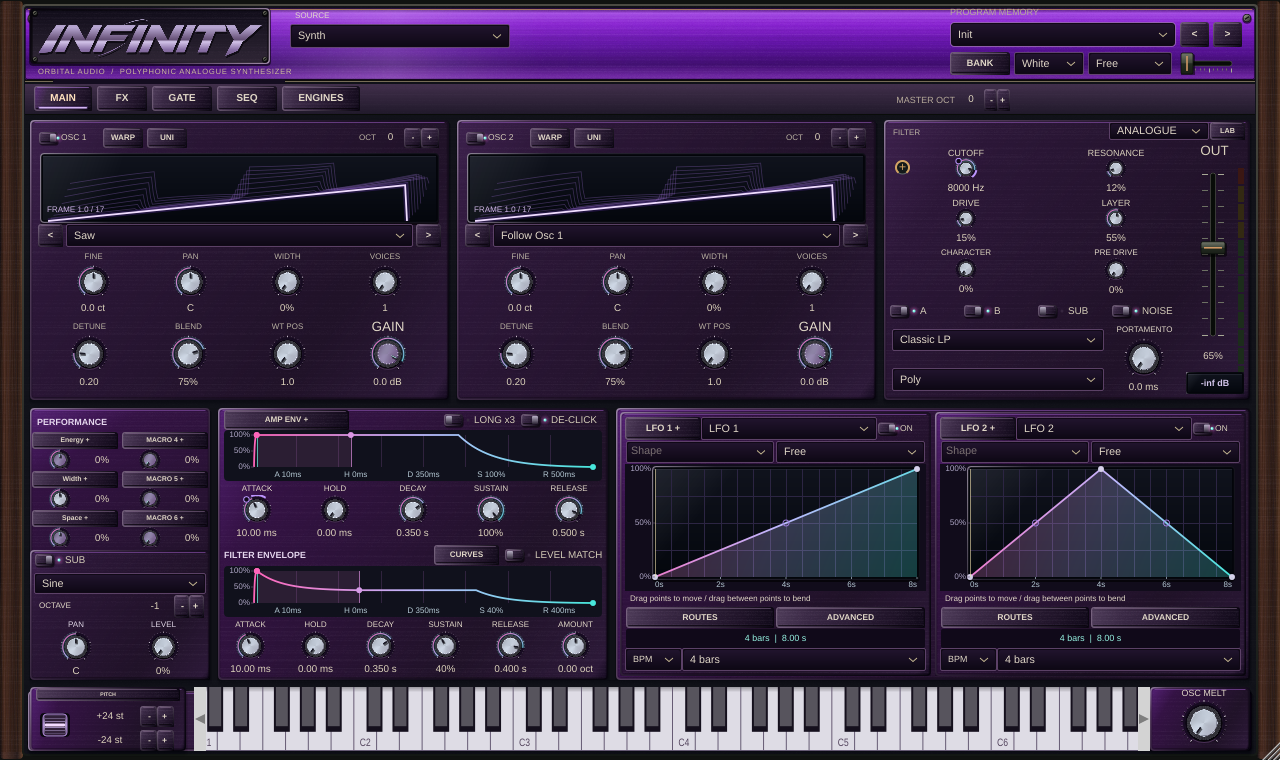
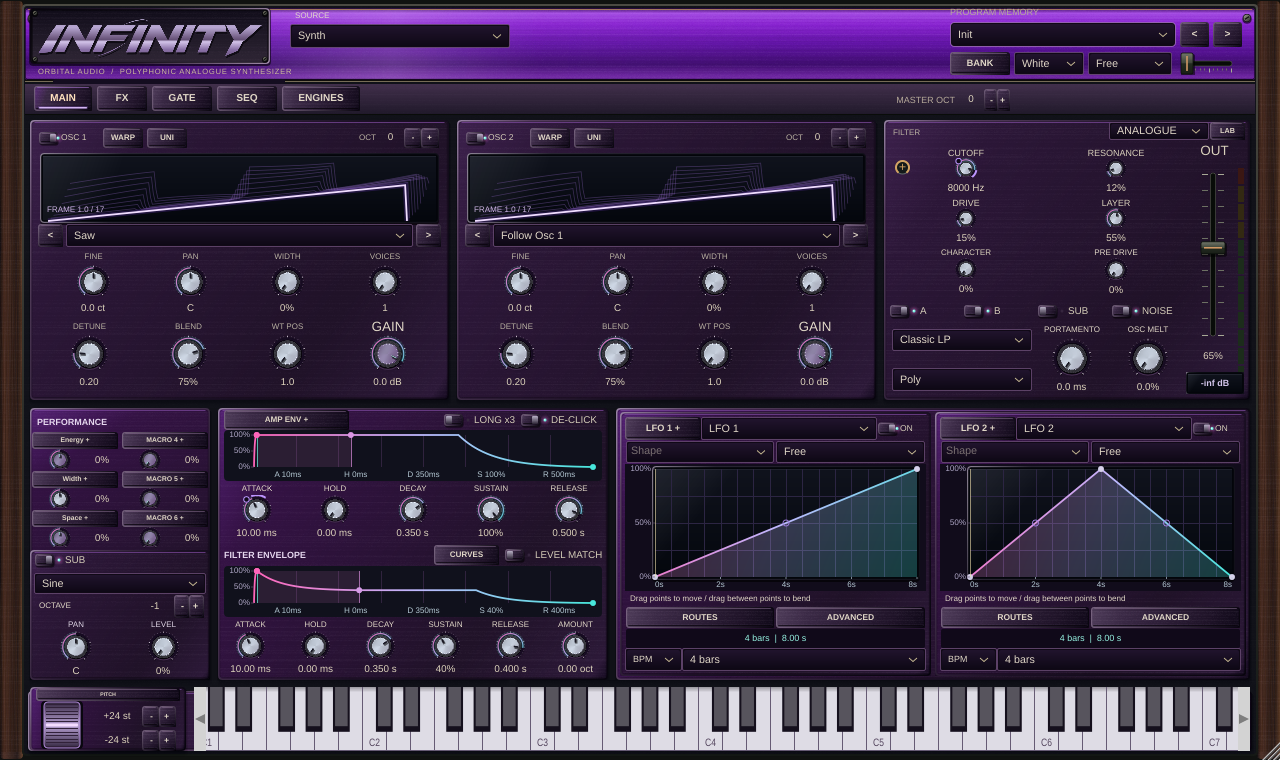
Move oscillator melt beside portamento and enlarge pitch wheel [skip ci]

Changed region(s): [[0.1562, 0.8776, 1.0, 0.9987], [0.8125, 0.4237, 0.9062, 0.5145], [0.0312, 0.9079, 0.125, 0.9987]]

diff --git a/native-vst3/Source/PluginEditor.cpp b/native-vst3/Source/PluginEditor.cpp
@@ -400,7 +400,7 @@ SpaceInfinityEditor::SpaceInfinityEditor(SpaceInfinityProcessor& p):AudioProcess
     addAndMakeVisible(noiseLevel);
     attachments.push_back(std::make_unique<juce::AudioProcessorValueTreeState::SliderAttachment>(processor.state,"noiseLevel",noiseLevel));
     noiseLevel.textFromValueFunction=[](double v){return juce::String(v*100,1)+" %";};noiseLevel.updateText();
-    melt.initialiseModulation(processor,"oscMelt");melt.setName("Oscillator melt");melt.setSliderStyle(juce::Slider::RotaryHorizontalVerticalDrag);melt.setTextBoxStyle(juce::Slider::NoTextBox,false,0,0);melt.setPopupDisplayEnabled(true,true,this);melt.setMouseDragSensitivity(350);melt.setDoubleClickReturnValue(true,0);melt.setTooltip("MELT brings both synth oscillators through shared harmonic saturation and gently unifies their stereo image. Keeps tuning; zero restores the original sound. Use both oscillators.");attachments.push_back(std::make_unique<juce::AudioProcessorValueTreeState::SliderAttachment>(processor.state,"oscMelt",melt));melt.textFromValueFunction=[](double value){return juce::String(value*100,1)+"%";};addAndMakeVisible(melt);meltLabel.setText("OSC MELT",juce::dontSendNotification);meltLabel.setJustificationType(juce::Justification::centred);meltLabel.setFont(juce::Font(juce::FontOptions(10)));addAndMakeVisible(meltLabel);
+    melt.initialiseModulation(processor,"oscMelt");melt.setName("Oscillator melt");melt.setSliderStyle(juce::Slider::RotaryHorizontalVerticalDrag);melt.setTextBoxStyle(juce::Slider::TextBoxBelow,false,56,16);melt.setPopupDisplayEnabled(true,true,this);melt.setMouseDragSensitivity(350);melt.setDoubleClickReturnValue(true,0);melt.setTooltip("MELT brings both synth oscillators through shared harmonic saturation and gently unifies their stereo image. Keeps tuning; zero restores the original sound. Use both oscillators.");attachments.push_back(std::make_unique<juce::AudioProcessorValueTreeState::SliderAttachment>(processor.state,"oscMelt",melt));melt.textFromValueFunction=[](double value){return juce::String(value*100,1)+"%";};melt.valueFromTextFunction=[](const juce::String& text){return text.getDoubleValue()/100;};melt.updateText();addAndMakeVisible(melt);meltLabel.setText("OSC MELT",juce::dontSendNotification);meltLabel.setJustificationType(juce::Justification::centred);meltLabel.setFont(juce::Font(juce::FontOptions(9)));addAndMakeVisible(meltLabel);
     for(int i=0;i<3;++i){samplerLabels[size_t(i)].setText(i==0?"START":i==1?"END":"ROOT",juce::dontSendNotification);samplerLabels[size_t(i)].setFont(juce::Font(juce::FontOptions(8.5f)));addAndMakeVisible(samplerLabels[size_t(i)]);}
     const char* oscIds[]={"osc1Tune","osc1Width","osc2Tune","osc2Width"};
     for(size_t i=0;i<oscillatorSliders.size();++i){
@@ -504,7 +504,7 @@ SpaceInfinityEditor::SpaceInfinityEditor(SpaceInfinityProcessor& p):AudioProcess
     pitchAttachment=std::make_unique<juce::AudioProcessorValueTreeState::SliderAttachment>(processor.state,"pitchBend",pitchWheel);
     pitchWheel.textFromValueFunction=[](double value){return juce::String(value,1)+" st";};
     pitchWheel.updateText();
-    for(int i=0;i<2;++i){auto& limit=pitchLimits[size_t(i)];const char* id=i==0?"pitchUpLimit":"pitchDownLimit";limit.initialiseModulation(processor,id);limit.setName(i==0?"Pitch up limit":"Pitch down limit");limit.setSliderStyle(juce::Slider::IncDecButtons);limit.setIncDecButtonsMode(juce::Slider::incDecButtonsDraggable_Vertical);limit.setTextBoxStyle(juce::Slider::TextBoxLeft,false,56,20);limit.setMouseDragSensitivity(250);limit.setTooltip(i==0?"Upper pitch-wheel stop, 0 to +24 semitones. Type a value or drag the +/- area vertically.":"Lower pitch-wheel stop, 0 to -24 semitones. Type a value or drag the +/- area vertically.");attachments.push_back(std::make_unique<juce::AudioProcessorValueTreeState::SliderAttachment>(processor.state,id,limit));limit.textFromValueFunction=[i](double value){return (value==0?juce::String{}:juce::String(i==0?"+":"-"))+juce::String(int(value))+" st";};limit.valueFromTextFunction=[](const juce::String& text){return std::abs(text.getDoubleValue());};limit.updateText();addAndMakeVisible(limit);}
+    for(int i=0;i<2;++i){auto& limit=pitchLimits[size_t(i)];const char* id=i==0?"pitchUpLimit":"pitchDownLimit";limit.initialiseModulation(processor,id);limit.setName(i==0?"Pitch up limit":"Pitch down limit");limit.setSliderStyle(juce::Slider::IncDecButtons);limit.setIncDecButtonsMode(juce::Slider::incDecButtonsDraggable_Vertical);limit.setTextBoxStyle(juce::Slider::TextBoxLeft,false,46,20);limit.setMouseDragSensitivity(250);limit.setTooltip(i==0?"Upper pitch-wheel stop, 0 to +24 semitones. Type a value or drag the +/- area vertically.":"Lower pitch-wheel stop, 0 to -24 semitones. Type a value or drag the +/- area vertically.");attachments.push_back(std::make_unique<juce::AudioProcessorValueTreeState::SliderAttachment>(processor.state,id,limit));limit.textFromValueFunction=[i](double value){return (value==0?juce::String{}:juce::String(i==0?"+":"-"))+juce::String(int(value))+" st";};limit.valueFromTextFunction=[](const juce::String& text){return std::abs(text.getDoubleValue());};limit.updateText();addAndMakeVisible(limit);}
     for(auto& limit:pitchLimits)limit.onValueChange=[this]{updatePitchLimits();};updatePitchLimits();sourceHeader.setText("SOURCE",juce::dontSendNotification);sourceHeader.setFont(juce::Font(juce::FontOptions(9)));addAndMakeVisible(sourceHeader);
 
     longEnvelope.onStateChange=[this]{knobs[2].updateText();knobs[3].updateText();repaint();};
@@ -990,7 +990,7 @@ void SpaceInfinityEditor::paint(juce::Graphics& g){
             const auto layout=mainLayout(getWidth(),getHeight());
             for(const auto region:{layout.oscillators[0],layout.oscillators[1],layout.filter,layout.macros,layout.envelope,layout.motion})
                 HardwareTheme::module(surface,region.toFloat(),region.getY()==layout.macros.getY());
-            drawInset(surface,{28.0f,float(getHeight()-69),float(getWidth()-56),60.0f});HardwareTheme::module(surface,{float(getWidth()-130),float(getHeight()-73),100,64},true);HardwareTheme::module(surface,{30,float(getHeight()-73),156,64},true);
+            drawInset(surface,{28.0f,float(getHeight()-69),float(getWidth()-56),60.0f});HardwareTheme::module(surface,{30,float(getHeight()-73),156,64},true);
         }
         cachedFxPage=fxPage;
     }
@@ -1155,7 +1155,7 @@ void SpaceInfinityEditor::resized(){
     noiseMode.setBounds(w-192,52,84,23);
     noiseLevel.setBounds(w-104,52,66,23);
     mainTab.setBounds(34,86,58,25);fxTab.setBounds(97,86,50,25);gateTab.setBounds(152,86,60,25);sequenceTab.setBounds(217,86,60,25);extendedButton.setBounds(282,86,78,25);
-    octaveControls[0].setBounds(w-320,89,52,22);pitchWheel.setBounds(34,h-58,42,46);pitchSettings.setBounds(36,h-72,144,13);pitchLimits[0].setBounds(82,h-54,94,21);pitchLimits[1].setBounds(82,h-30,94,21);
+    octaveControls[0].setBounds(w-320,89,52,22);pitchWheel.setBounds(34,h-61,56,52);pitchSettings.setBounds(36,h-72,144,13);pitchLimits[0].setBounds(94,h-54,84,21);pitchLimits[1].setBounds(94,h-30,84,21);
     if(gatePage)gatePage->setBounds(28,150,w-56,h-212);if(sequencerPage)sequencerPage->setBounds(28,150,w-56,h-212);
     for(int i=0;i<3;++i)pageLfoSources[size_t(i)].setBounds(210+i*60,h-53,57,28);
     if(studioRack)studioRack->setBounds(28,150,w-56,h-212);
@@ -1199,10 +1199,17 @@ void SpaceInfinityEditor::resized(){
     {auto row=juce::Rectangle<int>(filterControls.getX(),filterControls.getY()+2*gridHeight,filterControls.getWidth(),gridHeight);auto a=row.removeFromLeft(row.getWidth()/2).reduced(2,0);analogueLabel.setFont(juce::Font(juce::FontOptions(9)));analogueLabel.setBounds(a.removeFromTop(10));analogueCharacter.setBounds(a);auto b=row.reduced(2,0);preDriveLabel.setFont(juce::Font(juce::FontOptions(9)));preDriveLabel.setBounds(b.removeFromTop(10));preDrive.setBounds(b);}
     analogueOn.setBounds(layout.filter.getRight()-141,layout.filter.getY()+2,100,18);analogueLabButton.setBounds(layout.filter.getRight()-40,layout.filter.getY()+2,35,18);
     filterMode.setBounds(layout.filter.getX()+8,layout.filter.getBottom()-71,layout.filter.getWidth()-70,22);
-    const int voiceWidth=juce::jmax(65,layout.filter.getWidth()-154);
-    voiceMode.setBounds(layout.filter.getX()+8,layout.filter.getBottom()-32,voiceWidth,23);
-    filterMode.setBounds(layout.filter.getX()+8,layout.filter.getBottom()-71,voiceWidth,22);
-    portamentoLabel.setBounds(layout.filter.getX()+voiceWidth+9,layout.filter.getBottom()-77,79,14);portamento.setBounds(layout.filter.getX()+voiceWidth+12,layout.filter.getBottom()-62,72,57);
+    const int filterUtilityWidth=layout.filter.getWidth()-74;
+    const int utilityKnobWidth=juce::jlimit(44,72,filterUtilityWidth/3);
+    const int voiceWidth=filterUtilityWidth-2*utilityKnobWidth-8;
+    const int utilityX=layout.filter.getX()+8;
+    voiceMode.setBounds(utilityX,layout.filter.getBottom()-32,voiceWidth,23);
+    filterMode.setBounds(utilityX,layout.filter.getBottom()-71,voiceWidth,22);
+    portamentoLabel.setText(utilityKnobWidth<60?"PORTA":"PORTAMENTO",juce::dontSendNotification);
+    portamentoLabel.setBounds(utilityX+voiceWidth+4,layout.filter.getBottom()-77,utilityKnobWidth,14);
+    portamento.setBounds(utilityX+voiceWidth+4,layout.filter.getBottom()-62,utilityKnobWidth,57);
+    meltLabel.setBounds(portamento.getRight()+4,layout.filter.getBottom()-77,utilityKnobWidth,14);
+    melt.setBounds(portamento.getRight()+4,layout.filter.getBottom()-62,utilityKnobWidth,57);
     labels[12].setText("OUT",juce::dontSendNotification);
     labels[12].setBounds(layout.filter.getRight()-58,layout.filter.getY()+24,45,13);
     knobs[12].setBounds(layout.filter.getRight()-59,layout.filter.getY()+42,44,layout.filter.getHeight()-50);
@@ -1277,7 +1284,7 @@ void SpaceInfinityEditor::resized(){
         meterBounds={w-43,h-56,8,35};
     }
     if(workbench)workbench->setBounds(30,layout.macros.getY(),w-60,layout.macros.getHeight());
-    if(subPanel)subPanel->setBounds(30,h-210,juce::jlimit(132,180,(w-60)/6),130);if(keyboard){keyboard->setBounds(194,h-73,w-324,64);keyboard->setKeyWidth(juce::jlimit(14.0f,24.0f,float(w-324)/42));keyboard->setLowestVisibleKey(36);}melt.setBounds(w-116,h-61,80,48);meltLabel.setBounds(w-122,h-73,92,13);
+    if(subPanel)subPanel->setBounds(30,h-210,juce::jlimit(132,180,(w-60)/6),130);if(keyboard){keyboard->setBounds(194,h-73,w-224,64);keyboard->setKeyWidth(juce::jlimit(14.0f,24.0f,float(w-224)/42));keyboard->setLowestVisibleKey(36);}
     for(int i=0;i<2;++i){auto r=layout.oscillators[i];gainLabels[size_t(i)].setBounds(oscillatorGains[size_t(i)].getBounds().translated(0,-15).withHeight(13));}
     const int routeWidth=(layout.filter.getWidth()-70)/4;for(int i=0;i<4;++i){const char* names[]{"A","B","SUB","NOISE"};filterRoutes[size_t(i)].setButtonText(routeWidth<52?(i==2?"S":i==3?"N":names[i]):names[i]);filterRoutes[size_t(i)].setBounds(layout.filter.getX()+5+i*routeWidth,layout.filter.getBottom()-100,routeWidth,22);}
     masterReadout.setBounds(fxPage?juce::Rectangle<int>(w-390,h-54,94,30):juce::Rectangle<int>(layout.filter.getRight()-64,layout.filter.getBottom()-28,58,22));

diff --git a/native-vst3/Source/HardwareTheme.h b/native-vst3/Source/HardwareTheme.h
@@ -144,6 +144,15 @@ public:
         const auto p1=radial(angle,r*.26f),p2=radial(angle,r*.58f);const float line=juce::jmax(1.6f,r*.075f);g.setColour(juce::Colour(0x90000000));g.drawLine({p1.translated(.7f,1),p2.translated(.7f,1)},line+1);g.setColour(juce::Colour(violet?0xff100717:0xff252531));g.drawLine({p1,p2},line);g.setColour(juce::Colour(violet?0xffbcfff3:0xff12101a));g.drawLine({p1.translated(-.25f,-.35f),p2.translated(-.25f,-.35f)},juce::jmax(.75f,line*.48f));
     }
 
+    juce::Slider::SliderLayout getSliderLayout(juce::Slider& slider) override {
+        if(slider.getName()=="Pitch Wheel"){
+            juce::Slider::SliderLayout layout;
+            layout.sliderBounds=slider.getLocalBounds().reduced(6,3);
+            return layout;
+        }
+        return juce::LookAndFeel_V4::getSliderLayout(slider);
+    }
+
     void drawLinearSlider(juce::Graphics& g,int x,int y,int w,int h,float pos,float minimum,float maximum,
         juce::Slider::SliderStyle style,juce::Slider& slider) override {
         const bool vertical=style==juce::Slider::LinearVertical;
@@ -151,7 +160,7 @@ public:
             LookAndFeel_V4::drawLinearSlider(g,x,y,w,h,pos,minimum,maximum,style,slider);return;
         }
         if(vertical&&slider.getName()=="Pitch Wheel"){
-            auto r=juce::Rectangle<float>(float(x+w/2-12),float(y),24,float(h));g.setColour(juce::Colour(0xff09070e));g.fillRoundedRectangle(r.expanded(3,1),4);juce::ColourGradient drum(juce::Colour(0xff32253e),r.getX(),r.getY(),juce::Colour(0xff32253e),r.getX(),r.getBottom(),false);drum.addColour(.5,juce::Colour(0xffb9a2d4));g.setGradientFill(drum);g.fillRoundedRectangle(r,4);g.setColour(juce::Colour(0xff312139));for(int line=0;line<13;++line){const float yy=r.getY()+2+(r.getHeight()-4)*line/12;g.drawHorizontalLine(int(yy),r.getX()+2,r.getRight()-2);}g.setColour(juce::Colour(0xfff4dcff));g.fillRoundedRectangle(r.getX()+2,juce::jlimit(r.getY(),r.getBottom()-3,pos-1.5f),r.getWidth()-4,3,1);g.setColour(juce::Colour(0xffb28ad9));g.drawRoundedRectangle(r,4,1);return;
+            auto r=juce::Rectangle<float>(float(x+w/2-18),float(y),36,float(h));g.setColour(juce::Colour(0xff09070e));g.fillRoundedRectangle(r.expanded(3,1),4);juce::ColourGradient drum(juce::Colour(0xff32253e),r.getX(),r.getY(),juce::Colour(0xff32253e),r.getX(),r.getBottom(),false);drum.addColour(.5,juce::Colour(0xffb9a2d4));g.setGradientFill(drum);g.fillRoundedRectangle(r,4);g.setColour(juce::Colour(0xff312139));for(int line=0;line<13;++line){const float yy=r.getY()+2+(r.getHeight()-4)*line/12;g.drawHorizontalLine(int(yy),r.getX()+2,r.getRight()-2);}g.setColour(juce::Colour(0xfff4dcff));g.fillRoundedRectangle(r.getX()+2,juce::jlimit(r.getY(),r.getBottom()-3,pos-1.5f),r.getWidth()-4,3,1);g.setColour(juce::Colour(0xffb28ad9));g.drawRoundedRectangle(r,4,1);return;
         }
         const float cx=float(x)+float(w)*.5f,cy=float(y)+float(h)*.5f;
         for(int i=0;i<=10;++i) {

diff --git a/docs/MODULATION_CHORUS_MELT_UPDATE.md b/docs/MODULATION_CHORUS_MELT_UPDATE.md
@@ -8,7 +8,7 @@ The visual arrangement follows the owner's Serum 2 reference while retaining the
 
 ## Pitch wheel
 
-The wheel sits bottom-left beside the sub. Separate **+24 st / −24 st** fields set the upward and downward stops independently, from zero to 24 semitones each. The wheel stays visually centred at zero even with unequal stops, and springs back to zero on release. Host automation and MIDI bend respect those stops. Changing a stop also rescales a held physical MIDI wheel immediately; the existing MIDI bend range remains an additional cap. The chosen stops are saved with the patch.
+The larger ribbed wheel sits bottom-left beside the sub, with a 36 × 46-pixel visible drum and a larger drag area. Separate **+24 st / −24 st** fields set the upward and downward stops independently, from zero to 24 semitones each. The wheel stays visually centred at zero even with unequal stops, and springs back to zero on release. Host automation and MIDI bend respect those stops. Changing a stop also rescales a held physical MIDI wheel immediately; the existing MIDI bend range remains an additional cap. The chosen stops are saved with the patch.
 
 ## Direct modulation editing
 
@@ -26,7 +26,7 @@ The new processor uses opposed delay modulation, a filtered/saturated wet path a
 
 ## OSC MELT
 
-A main-page OSC MELT knob sends the two synth oscillators through shared harmonic saturation and gently brings their stereo image together. It preserves their pitches. Static compensation and30ms parameter smoothing avoid a level-following gain fade. Zero is an exact bypass, and a single oscillator is unaffected. Sub/noise are added afterwards; filter routing remains intact. MELT is available to LFO/amp/macro assignments and disabled for sample playback.
+OSC MELT sits beside Portamento in the main filter section, with a percentage readout. The keyboard extends into its previous bottom-right position. The knob sends the two synth oscillators through shared harmonic saturation and gently brings their stereo image together. It preserves their pitches. Static compensation and30ms parameter smoothing avoid a level-following gain fade. Zero is an exact bypass, and a single oscillator is unaffected. Sub/noise are added afterwards; filter routing remains intact. MELT is available to LFO/amp/macro assignments and disabled for sample playback.
 
 ## Recessed logo badge
 
@@ -42,4 +42,4 @@ The approved lettering and output-responsive light now sit in a recessed titaniu
 
 ## Status
 
-All 24 native suites passed (235.39 seconds), including DSP, banks, modulation, chorus/MELT, pitch/keyboard input and multi-size UI checks. The factory-edit import test also passed; all 1108 old parameter definitions/indices and both shipped banks are preserved. After the final popup-layer adjustment, all five affected UI/interaction suites passed again (20.14 seconds). Actual compiled previews appear above. See [verification](audit/LAYOUT_MODULATION_072_VALIDATION.md). No Windows build has been sent or published: the owner explicitly renewed the hold while requesting these changes. The saved0.7.1 installer predates this work. Package current0.7.2 source only when the owner is ready.
+All 24 native suites passed (235.39 seconds), including DSP, banks, modulation, chorus/MELT, pitch/keyboard input and multi-size UI checks. The factory-edit import test also passed; all 1108 old parameter definitions/indices and both shipped banks are preserved. After the final popup-layer adjustment, all five affected UI/interaction suites passed again (20.14 seconds). The later MELT/Portamento placement and larger pitch-wheel follow-up passed HardwareUI, PitchTravel and ChorusMelt again (3/3, 12.35 seconds). Actual compiled previews appear above. See [verification](audit/LAYOUT_MODULATION_072_VALIDATION.md). No Windows build has been sent or published: the owner explicitly renewed the hold while requesting these changes. The saved0.7.1 installer predates this work. Package current0.7.2 source only when the owner is ready.

diff --git a/docs/SESSION_HANDOVER.md b/docs/SESSION_HANDOVER.md
@@ -1,3 +1,9 @@
+# Latest layout follow-up — MELT beside Portamento, larger wheel
+
+Owner requested OSC MELT beside Portamento and a larger pitch wheel. MELT now shares the filter's lower utility row with Portamento, with a typed percentage readout; the freed footer space extends the keyboard. Pitch wheel has a 36 × 46-pixel visible ribbed drum and a 56 × 52-pixel drag area, with its existing spring return and independent up/down stops. The filter utility row adapts at smaller widths. No DSP or parameter definitions changed. HardwareUI (five sizes plus sampler), PitchTravel and ChorusMelt passed: 3/3 in 12.35 seconds; see audit/MELT_PORTAMENTO_WHEEL_072_TESTS.txt. Main/Sampler preview images have been refreshed. Windows verification is pending; download/publication hold remains in force.
+
+---
+
 # Active follow-up — 0.7.2 layout and controls, 18 November 2026
 
 **Download/publication hold remains in force.** The owner renewed it before requesting more changes. No 0.7.2 Windows installer has been built, published or sent. The saved verified 0.7.1 binary source f8db6e7 predates these changes and the graph-number update. Rebuild current source and verify Windows/FL Studio before delivering another installer.

diff --git a/docs/audit/LAYOUT_MODULATION_072_VALIDATION.md b/docs/audit/LAYOUT_MODULATION_072_VALIDATION.md
@@ -14,3 +14,5 @@ Validated 18 November 2026 on Linux using the compiled Release JUCE native edito
 Actual screenshots: [Main](../images/Layout-MAIN-072.png), [Sampler](../images/Layout-SAMPLER-072.png), [Dimension chorus](../images/Dimension-Chorus-072.png).
 
 Windows 0.7.2 build/installer verification and owner FL Studio listening remain pending. No 0.7.2 installer or public release has been supplied. The owner's download/publication hold remains in force. The saved verified 0.7.1 installer predates this work.
+
+Latest layout follow-up: OSC MELT moved beside Portamento, pitch wheel enlarged and keyboard extended. No DSP/parameter changes. HardwareUI, PitchTravel and ChorusMelt passed again (3/3, 12.35 seconds); see [follow-up results](MELT_PORTAMENTO_WHEEL_072_TESTS.txt). Main/Sampler previews above reflect this update.
